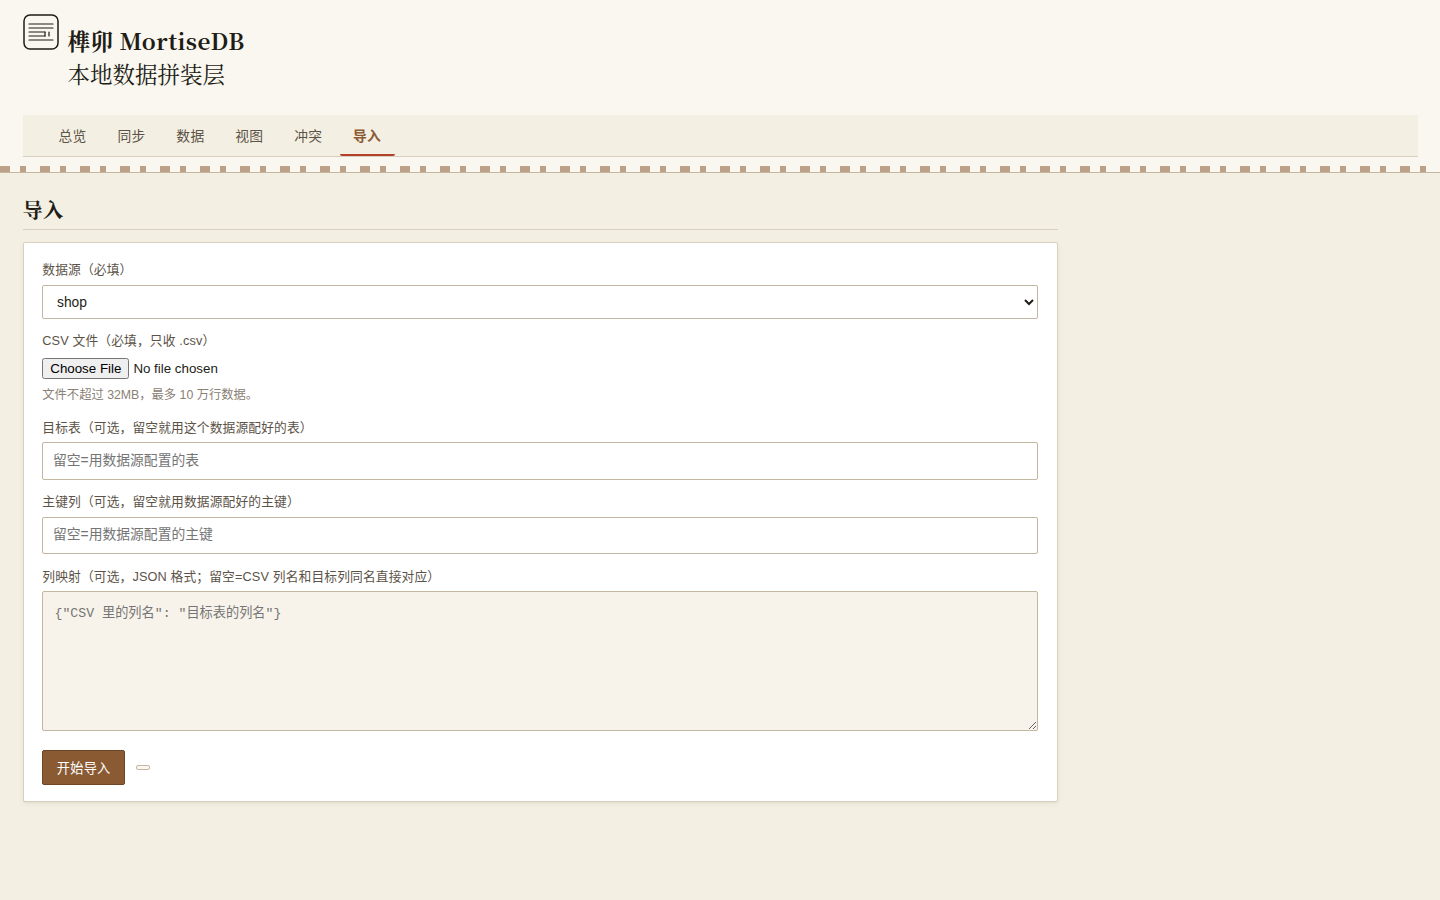
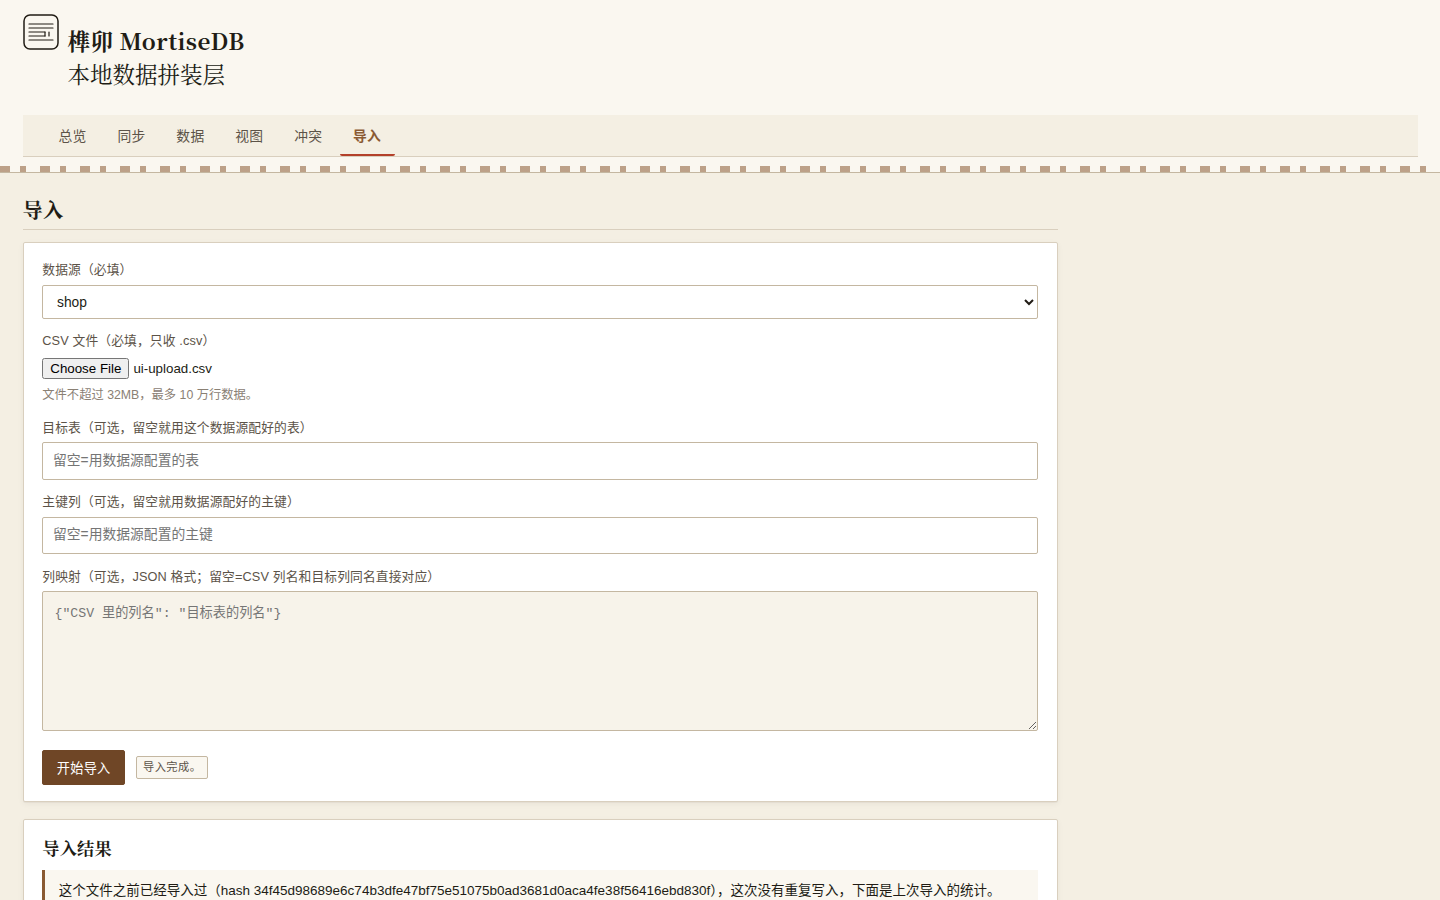
docs(mortisedb): v1.4.0 对照报告数字订正+导入页结果截图
- 对照报告测试数按本轮实测订正：9 包 ok / 135 PASS（含子测试）/ 0 失败
- docs/screenshots/import.png 换为带真实上传结果面板的截图（空表单+导入结果同屏亲验）

Changed region(s): [[0.0, 0.9022, 0.75, 1.0], [0.0312, 0.8089, 0.1562, 0.8711], [0.0938, 0.4044, 0.1562, 0.4356]]

diff --git a/mortisedb/docs/PRODUCTION_CHECKLIST_REPORT_v1.4.0.md b/mortisedb/docs/PRODUCTION_CHECKLIST_REPORT_v1.4.0.md
@@ -7,7 +7,7 @@
 | 构建 | `go build ./...` | ✅ 通过 |
 | 静态检查 | `go vet ./...` | ✅ 通过 |
 | 格式检查 | `gofmt -l .` | ✅ 干净（本轮涉及文件无输出） |
-| 单元与集成测试 | `go test ./...` | ✅ 全过（8 个包 ok，共 98 个测试 PASS，0 失败；新增 `import_csv_v14_test.go` 14 例全过） |
+| 单元与集成测试 | `go test ./...` | ✅ 全过（9 个包 ok，共 135 个测试 PASS（含子测试），0 失败；新增 `import_csv_v14_test.go` 14 例全过） |
 | 端到端回归 | `scripts/e2e.sh` | ✅ E2E PASS（10 步，v1.3 全链路无回归） |
 | Web UI 回归 | 导入页截图亲验 | ✅ 通过（导入页：数据源下拉真实加载/表单完整/宣纸榫卯风格无 AI 味；总览页真实数据渲染正常；`docs/screenshots/import.png`） |
 
